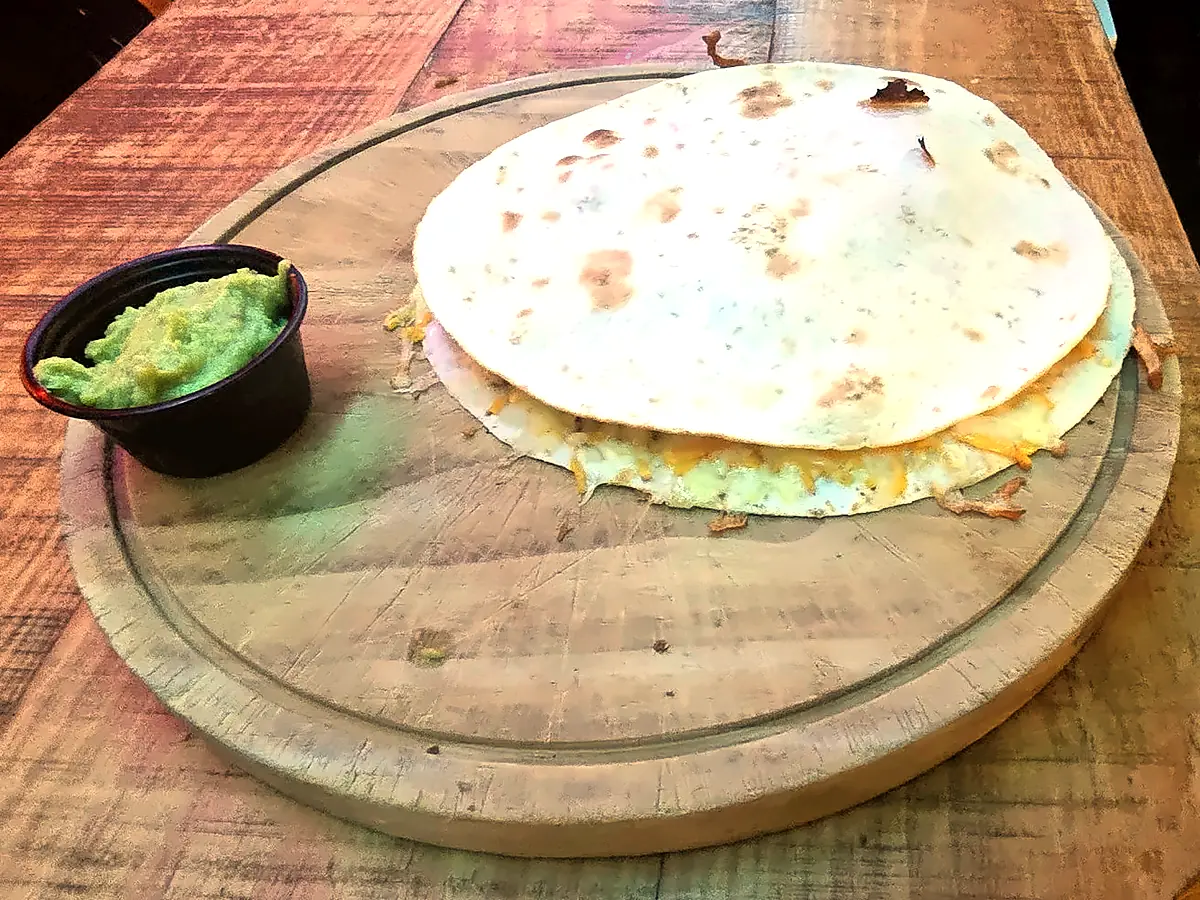
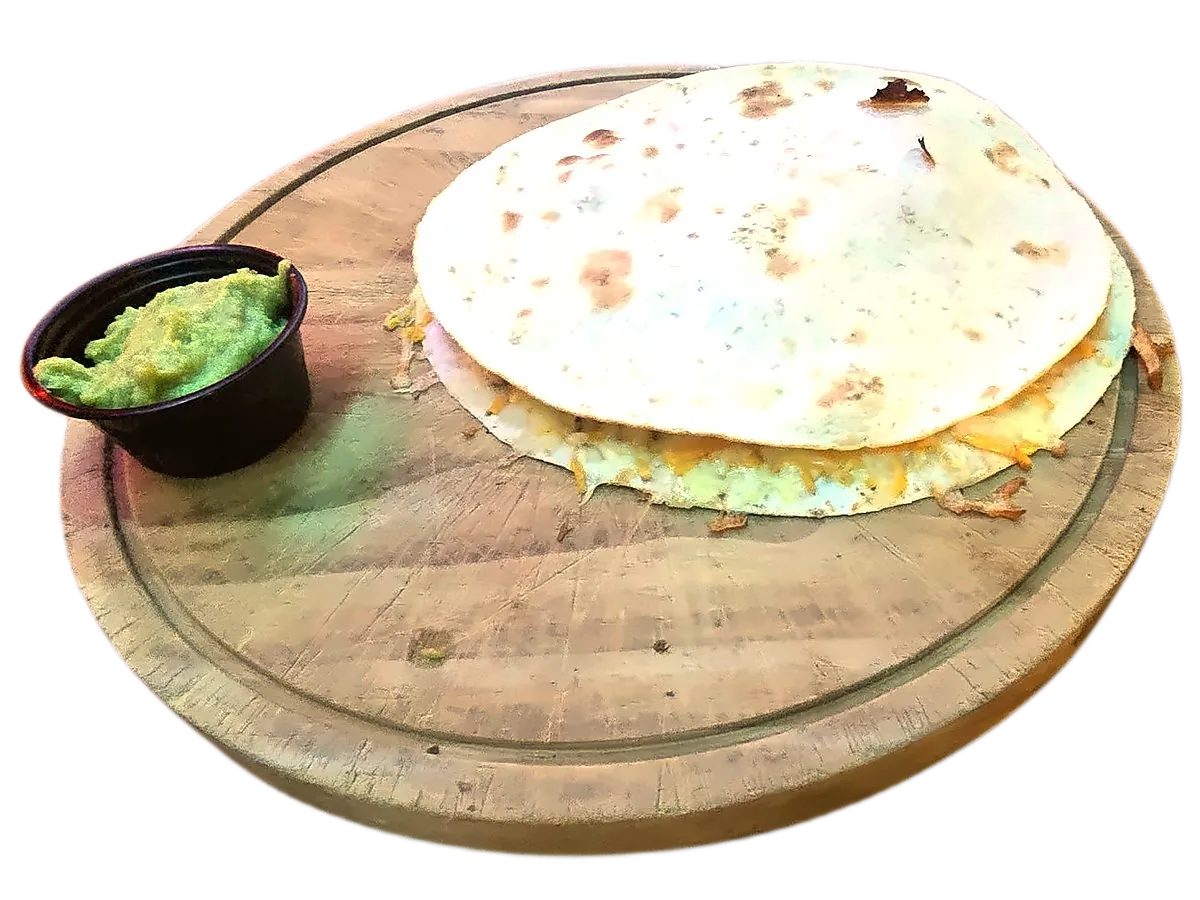
Carta: quesadilla 4 quesos sin fondo (Canva)
Claude-Session: https://claude.ai/code/session_015o4X8DVdqU8foxjyNf8au8

diff --git a/carta.js b/carta.js
@@ -114,7 +114,7 @@ const eur = v => v.toFixed(2).replace('.',',') + ' €';
         ? `<div class="pp"><span class="p2">${eur(it[idx][0])}</span><span class="p2">${eur(it[idx][1])}</span></div>`
         : `<span class="p">${eur(it[idx])}</span>`;
       const f = FOTOS[it[0]];
-      const foto = f ? `<button class="foto" data-f="${f}" aria-label="Ver foto de ${it[0]}"><picture><source srcset="/img/carta/${f}.webp" type="image/webp"><img src="/img/carta/${f}.jpg" alt="${it[0]}" loading="lazy" width="1200" height="900"></picture></button>` : '';
+      const foto = f ? `<button class="foto" data-f="${f}" aria-label="Ver foto de ${it[0]}"><picture><source srcset="/img/carta/${f}.webp" type="image/webp"><img src="/img/carta/${f}.png" alt="${it[0]}" loading="lazy" width="1200" height="900"></picture></button>` : '';
       return `<div class="row${f?' con-foto':''}">${foto}<span class="n">${it[0]}${nota}</span>${pr}</div>`;
     }).join('');
     return h + `</section>`;

diff --git a/estilo.css b/estilo.css
@@ -65,9 +65,9 @@ section{scroll-margin-top:56px}
 
 /* Fotos de platos */
 .row.con-foto{align-items:center}
-.foto{flex:0 0 auto;width:72px;height:54px;border:0;padding:0;border-radius:8px;overflow:hidden;cursor:zoom-in;background:#222}
-.foto img{width:100%;height:100%;object-fit:cover;display:block}
+.foto{flex:0 0 auto;width:72px;height:54px;border:0;padding:0;cursor:zoom-in;background:none}
+.foto img{width:100%;height:100%;object-fit:contain;display:block}
 .row.con-foto .n{flex:1}
-.visor{position:fixed;inset:0;z-index:50;background:rgba(0,0,0,.88);display:none;align-items:center;justify-content:center;padding:16px;cursor:zoom-out}
+.visor{position:fixed;inset:0;z-index:50;background:rgba(10,10,10,.97);display:none;align-items:center;justify-content:center;padding:16px;cursor:zoom-out}
 .visor.on{display:flex}
 .visor img{max-width:100%;max-height:100%;border-radius:12px}
